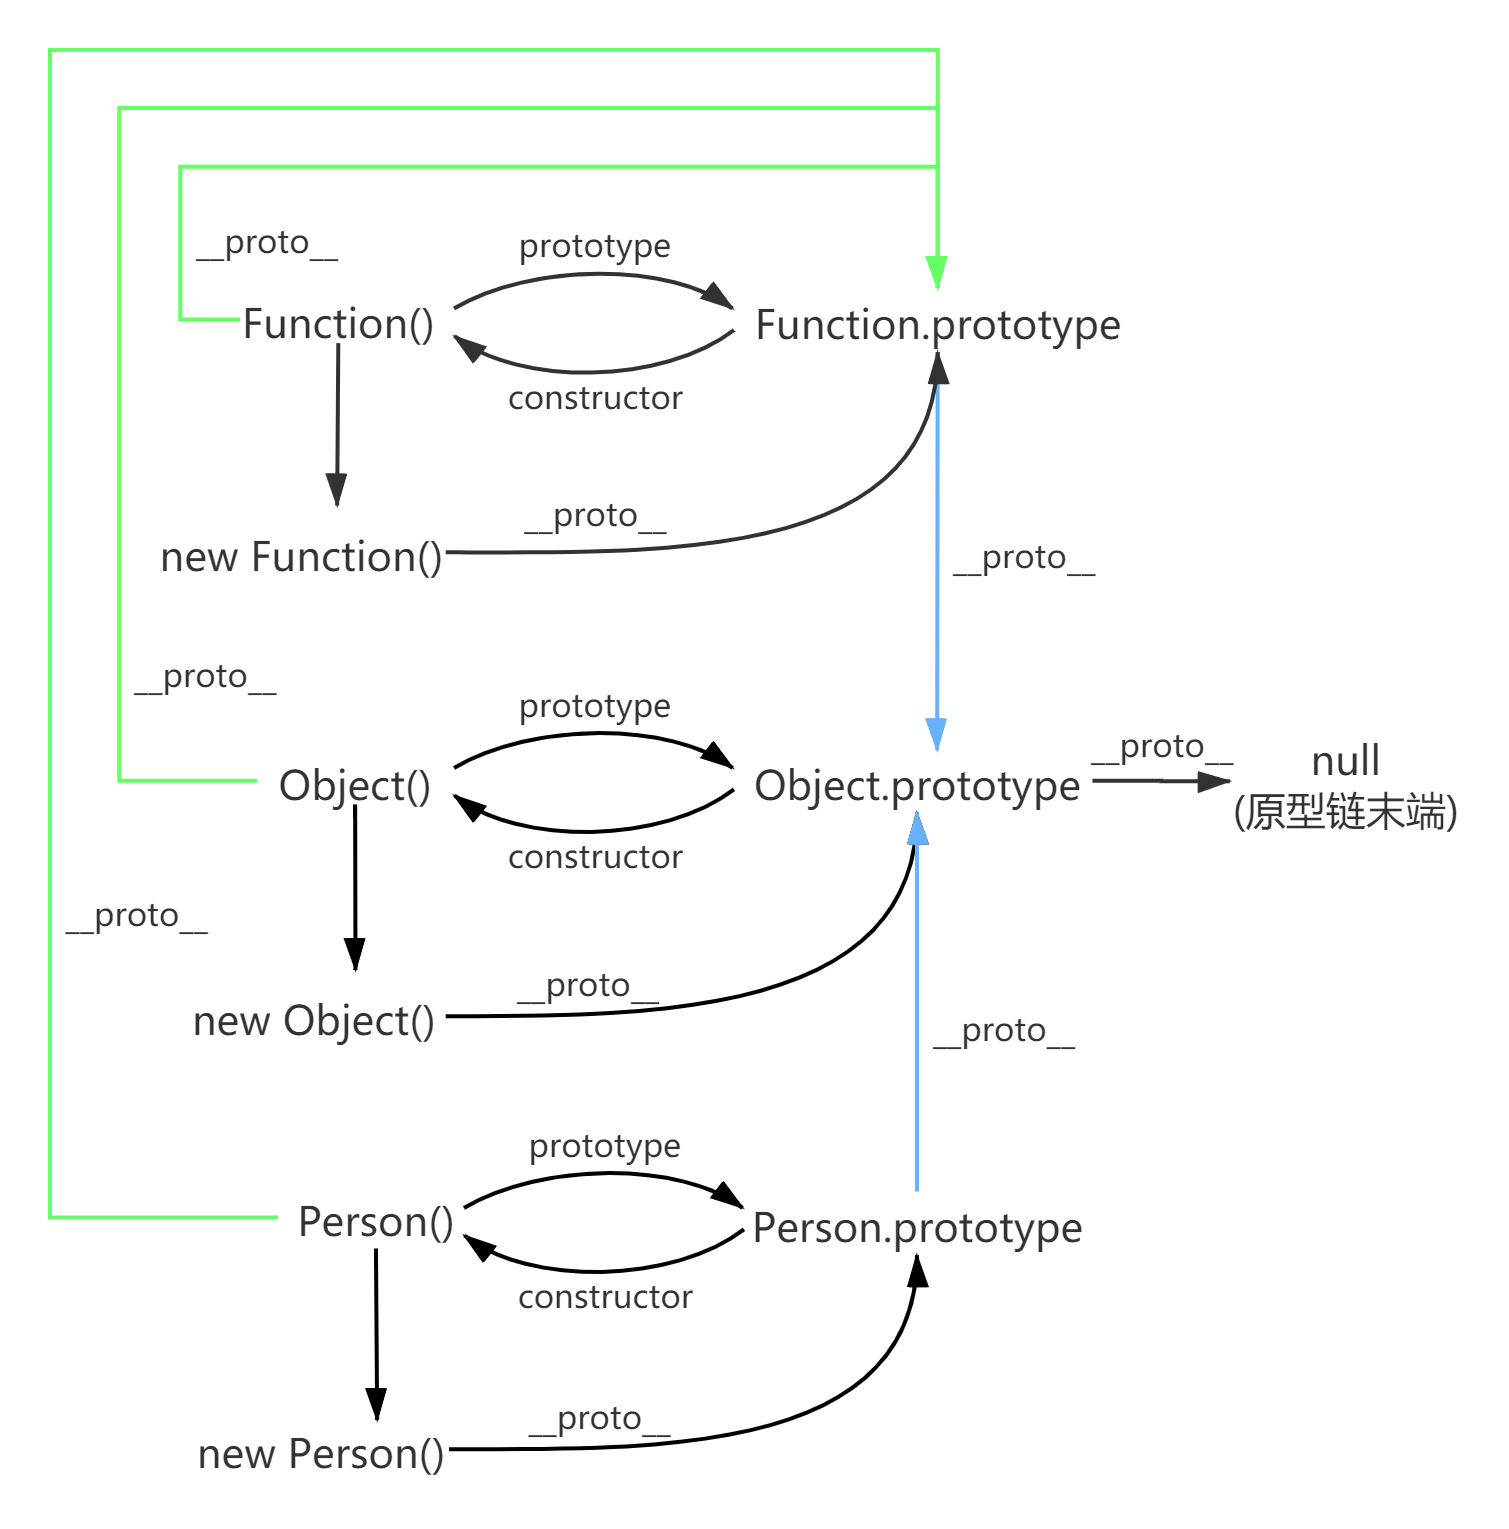
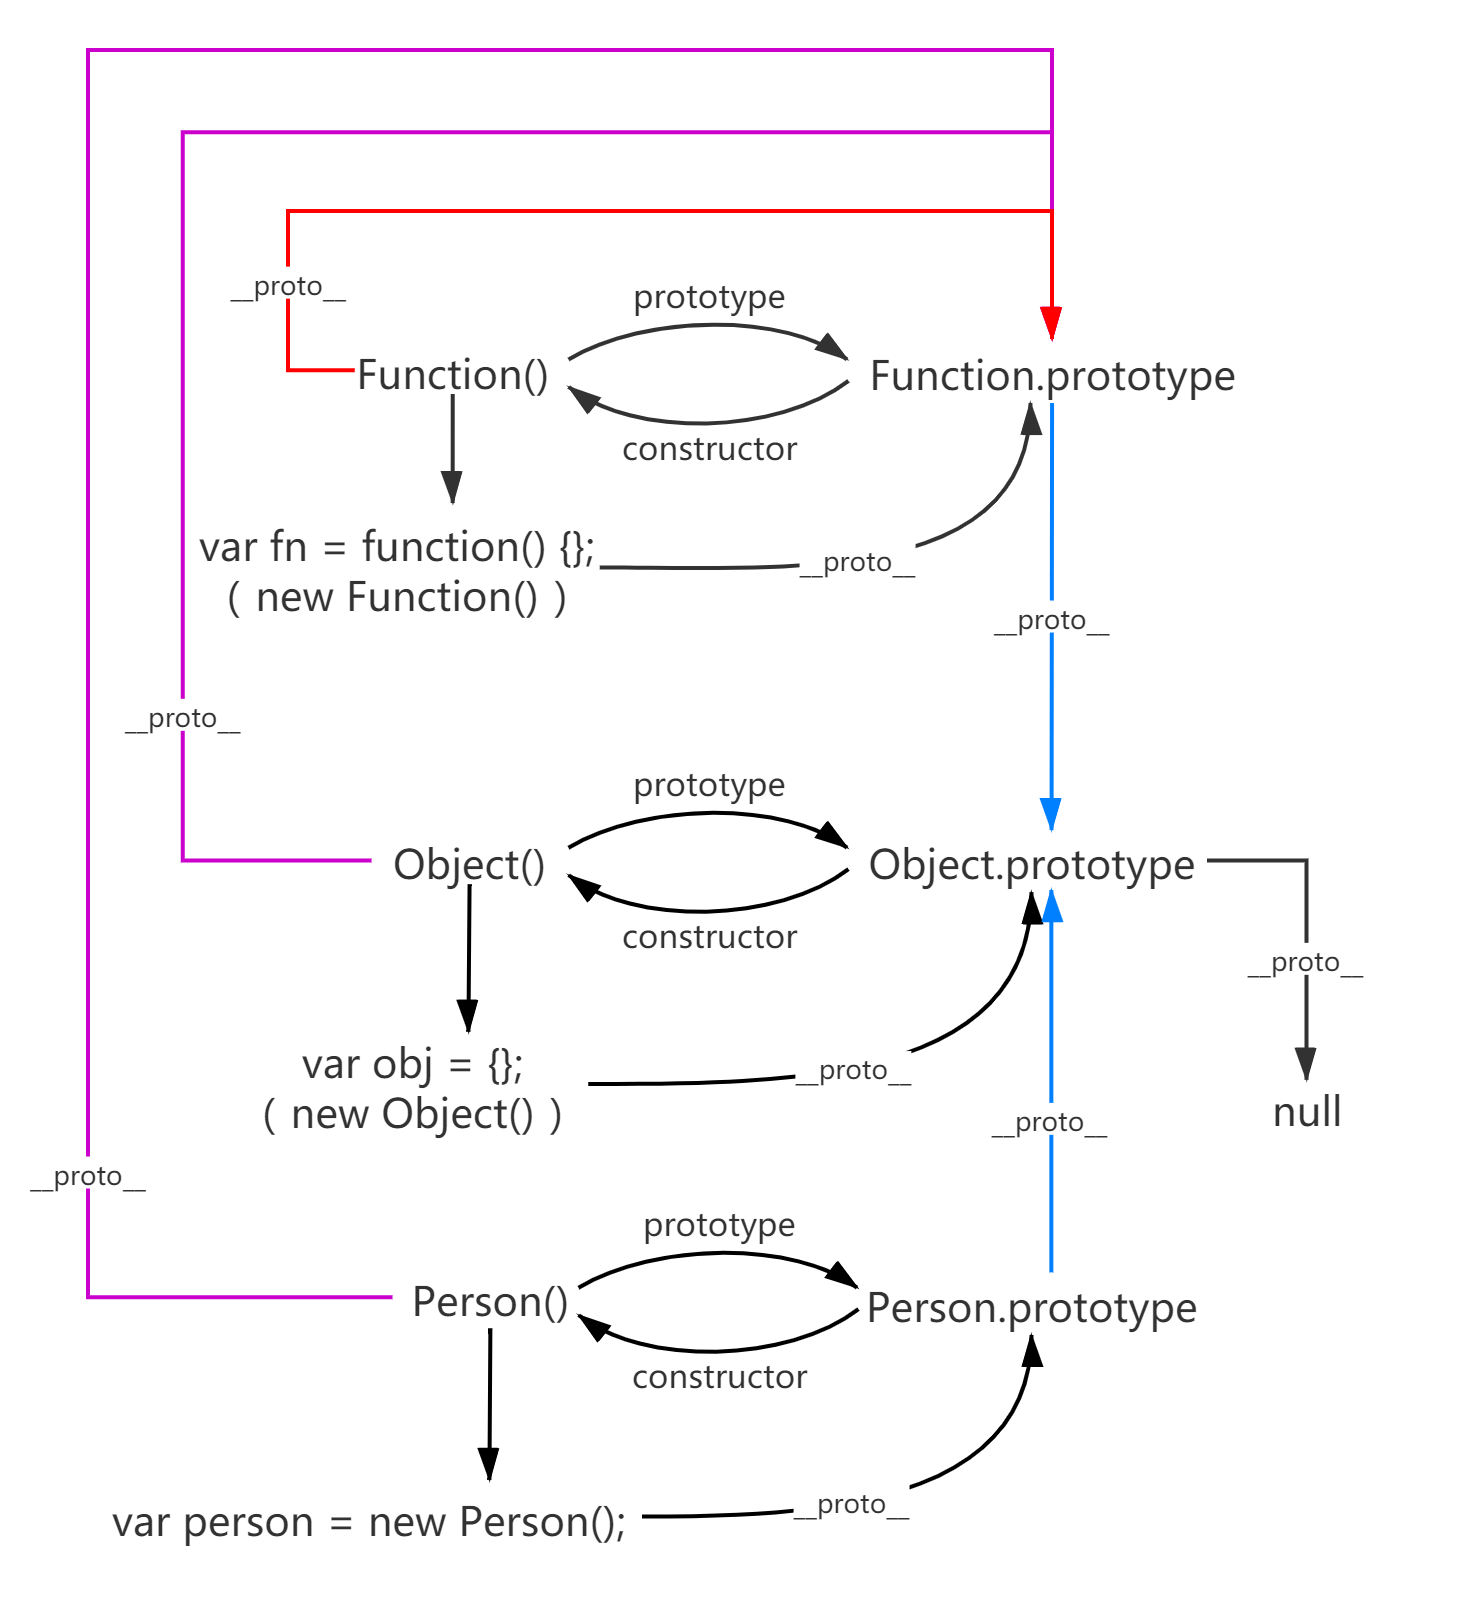
更新笔记

diff --git a/模仿面试.md b/模仿面试.md
@@ -1,0 +1,268 @@
+面试是一个挖掘候选人能力的过程，面试或易或难，甚至很多题目没有思路。遇到没有思路的情况，可以通过以下几点，来尽可能的争取加分而不是减分：
+
+1、**坦诚**
+
+一定要坦诚的告诉面试官，这个题目是自己不熟悉的领域。就算你不说，回答的时候，面试官也能感受到。因此，**切记不懂装懂**。
+
+2、**拓展**
+
+承认自己不理解后，要尝试根据自己以往经验，去讲述类似方案。但是注意，如果是概念性的东西，不要自己胡扯，就比如以下场景：
+
+```text
+问：“能解释一下 HTTP 协议中 302 这个状态码是什么吗？”
+答：“我不记得了。”
+（0 分）
+
+问：“能解释一下 HTTP 协议中 302 这个状态码是什么吗？”
+答：“哦，记不清了，我只记得 404 是找不到页面，304 是可以从缓存读取，5xx 是服务端错误”
+（加分，了解一定 HTTP 状态）
+
+问：“能解释一下 HTTP 协议中 302 这个状态码是什么吗？”
+答：“啊，那个，应该是服务端错误吧？”
+（倾向于面试不通过，不了解的时候瞎猜，这个特点对工作不利）
+```
+
+可以看到，不同的回答会有完全不同的结果。遇到自己不会的题目，通过介绍自己知道的相关知识，不仅不减分反而会加分。
+
+然后，试图引导面试官去问自己擅长的领域，比如根面试官说“不好意思，这个方面我没关注太多，不是很熟悉。不过我对 xxx 领域更熟悉，你可以问我这方面的内容”。
+
+3、**反问**
+
+这一点并不是在向面试官挑衅，而是虚心向对方学习，看对方怎么回答。这样会显得你认真、好学。
+
+总之，在面试中，除了要展示你的知识和能力外；最重要的是，让面试官看到你的态度。
+
+## JavaScript
+
+### 原型和原型链
+
+面试官：**谈谈你对原型和原型链的理解**
+
+候选人：首先在 JS 中，原型也是一个对象，它的作用是为其他对象提供“共享的属性和方法”。然后，在创建一个对象时，它的隐式原型会指向构造函数的显示原型 或 `null`。
+
+由于，原型也是对象，因此原型也有原型，这样就形成了原型链。
+
+面试官：**原型链有什么作用？**
+
+候选人：当访问对象的属性（或方法）时，其实是在查询原型链。如果在该对象上找到了要访问的属性，则直接返回；否则，沿着原型链向上查找，以此类推；直到找到原型链末端的 `null`。
+
+面试官：**那么如何实现继承呢？**
+
+候选人：有三种方法，1、`Object.create()` 2、`Object.setPrototypeOf()` 3、ES6 中的 `extends` 关键字。
+
+其中 `extends` 关键字的实现原理，就是采用了寄生组合式继承的方式。
+
+寄生组合式继承就利用了 `Object.create()`，代码如下所示：
+
+```js
+function inheritPrototype(superType, subType) {
+  // 继承父类型的原型
+  var prototype = Object.create(superType.prototype);
+  // 继承过来的原型上 constructor 会丢失，这里重新添加
+  prototype.constructor = subType;
+  // 将继承的原型赋予子类
+  subType.prototype = prototype;
+}
+
+function SuperType(name) {
+  this.name = name;
+  this.hobby = ["sing", "tap", "rap"];
+}
+
+SuperType.prototype.sayName = function () {
+  console.log(this.name);
+};
+
+function SubType(name, age) {
+  SuperType.call(this, name);
+  this.age = age;
+}
+
+// 子类继承父类的原型
+inheritPrototype(SuperType, SubType);
+
+SubType.prototype.sayAge = function () {
+  console.log(this.age);
+};
+
+var sub = new SubType("foo", 20);
+sub.sayName(); // => foo
+sub.sayAge(); // => 20
+```
+
+## 综合
+
+### 从 URL 输入到页面加载，发生了什么？
+
+总的来说，**主要**有六点：
+
+1. DNS 解析
+2. 建立 TCP 连接
+3. 发送 HTTP 请求
+4. 服务端处理请求，并响应数据
+5. 客户端接收响应数据，并渲染页面
+6. 断开连接（TCP 四次挥手）
+
+---
+
+**输入提示**
+
+在浏览器地址栏中输入内容后，浏览器会根据它的算法，匹配出几条 URL 或 信息。**敲下回车，如果最终输入的是 URL，就会开始 URL 解析。如果最终输入的不是 URL，就使用浏览器默认的搜索引擎去搜索**。
+
+这里，我介绍一下如果最终输入的是 URL，会发生什么。
+
+**URL 解析**
+
+URL 中的字符都是 ASCII 字符，也就是说**非 ASCII 字符的都会进行转义处理**。这样可以保证兼容性和安全性。
+
+接着，**提取其中的域名，然后开始 DNS 解析**。当然，如果是直接使用的 IP 就没有 DNS 解析这一步了。这里假设使用的是域名。
+
+**1. DNS 解析**
+
+DNS 解析就是把域名映射到 IP 的一个过程。具体步骤如下：
+
+1. **检查浏览器中的 DNS 缓存**。如果有，直接使用；否则进行下一步。
+2. **检查系统缓存**。也就是会**检测本地的 hosts 文件**，看是否存储了要访问的域名的 IP。如果有，直接使用（之前也有人利用这个原理进行科学上网，不过貌似并不能 100% 成功）。
+3. **路由器缓存**。路由器也有 DNS 缓存。
+4. **ISP 的 DNS 服务器缓存**。
+5. **根域名服务器**。此处会进行迭代查询，查找顺序为：**根 DNS 服务器（`.`）=> 顶级域名服务器（例如：`.com`） => 二级域名服务器（例如：`google.com`） => ...（依次类推）**。如果找到了，就返回 IP；否则，返回给浏览器信息“找不到服务器地址”。
+
+找到服务器的 IP 后，接下来就开始建立 TCP 连接。
+
+**2. TCP 连接**
+
+目前大多数应用是采用的 HTTP 协议，而 HTTP 协议是以 TCP/IP 协议为基础的。
+
+**IP 的发出**
+
+上述 DNS 解析时，获取了真实的 IP，然后再加上 URL 中的端口号，浏览器会调用系统的 `socket` 函数，请求一个 TCP 流套接字，再封装成 TCP 包，由系统发出。
+
+**TCP 三次握手**
+
+- 第一次握手
+
+  浏览器发送一个 TCP 报文，其中标志位 `SYN = 1`，序号 `seq = x`。
+
+- 第二次握手
+
+  客户端回应一个 TCP 报文，其中标志位 `SYN = 1, ACK = 1`，序号 `seq = y`，确认号 `ack = x + 1`。
+
+- 第三次握手
+
+  浏览器回应一个 TCP 报文，其中标志位 `ACK = 1`，序号 `seq = x + 1`，确认号 `ack = y + 1`。
+
+**3. 发送 HTTP 请求**
+
+完成 TCP 握手后，可能会进行 TLS 握手，也就是走 HTTPS 协议。至于走 HTTP 协议还是走 HTTPS 协议，影响条件很多。比如：
+
+- 用户只输入域名，浏览器默认走 HTTP 协议
+- 用户通过 IP 访问，浏览器也会走 HTTP 协议
+- 只有用户明确指定了 `https://` 前缀，浏览器才会走 HTTPS 协议
+
+但是，我们平时直接输入域名，为什么浏览器走的是 HTTPS？这是因为，浏览器进行了一些判断和重定向。
+
+比如，浏览器会根据域名检查 HSTS 列表，如果找到了 IP 则返回，并强制使用 HTTPS 协议发送请求。其次，如果在 HSTS 列表中没找到，会先发送一次 HTTP 请求，如果服务端启用了 HTTPS，则返回 302 响应；然后浏览器通过 HTTPS 协议重新发送请求。
+
+这中间涉及了 HTTP 到 HTTPS 的重定向，因此这个过程可能受到攻击。这就是为什么使用了 HTTPS 还遭到攻击的原因。
+
+**TLS 握手**
+
+- 第一次握手
+
+  - 客户端发起 TLS 连接请求，其中包含**支持的 TLS 版本、一个随机数、加密算法列表、压缩算法列表**
+  - 服务端回应请求，回应的内容包括**要使用的 TLS 版本、一个随机数、要使用的加密算法、要使用的压缩算法**
+
+- 第二次握手
+
+  - 服务端将自己的证书发给客户端，然后发送 ServerHelloDone 消息
+  - 客户端验证服务端发来的证书，如果不合法，则断开连接
+
+- 第三次握手
+
+  - 客户端发给服务端**一个随机数（pre-master-secret）**，并使用服务端证书中的公钥加密这个随机数
+
+然后两端都有了三个随机数，它们分别使用协商的加密算法和三个随机数，生成“会话密钥”（master-secret）。
+
+- 第四次挥手
+
+  - 客户端发送编码改变通知（告诉服务端，接下来的数据使用会话密钥加密）
+  - 客户端发送握手结束通知（其中包含之前所有握手信息的 Hash 和 MAC，供服务端校验）
+  - 服务端同样会做上述操作
+
+**HTTP 请求报文**
+
+TLS 握手结束后，接下来的流程就和发送 HTTP 请求一样，只不过数据是加密了的。
+
+HTTP 请求报文包括：**请求行、请求头、请求体**。
+
+请求行包括：**请求方法、URI、协议版本**。
+
+请求头用于传输一些附加信息，例如：`Content-Type`、`Cookie` 等。
+
+请求体用于承载数据。
+
+**4. 服务端处理请求，并响应数据**
+
+**HTTP 响应报文**
+
+HTTP 响应报文包括：**响应行、响应头、响应体**。
+
+响应行包括：**协议版本、状态码、状态码描述**。
+
+响应头也是用于传输一些附加信息，例如：`Set-Cookie` 用于在客户端种下 Cookie。
+
+响应体也是用于承载数据。
+
+**5. 客户端接收响应数据，并渲染页面**
+
+客户端拿到响应的数据后，进行如下处理：
+
+- HTML 解析为 DOM 树
+
+  - 采用深度优先遍历，即构建完当前节点的所有子节点后，才会去构建下一个节点。
+
+  - 如果构建 DOM 树的时候，遇到 `<script>` 标签，则停止构建，直到脚本执行完毕。
+
+- CSS 解析为 CSS 规则树
+
+  - 构建 CSS 规则树时，会停止 JS 的执行。
+
+- 然后 CSS 规则树和 DOM 树结合，生成渲染树
+
+  - 精简 CSS 选择器，可以加快渲染树的合成（例如使用 BEM 规则）
+
+- 根据渲染树，计算每个节点的几何信息（位置、大小等）
+
+  - 整个过程也可以叫做布局。布局完成后，如果元素的几何信息发生了改变，就会进行重新布局，也就是**回流**（重排）
+
+- 然后根据计算的几何信息，绘制页面
+
+  - 根据布局阶段，计算好的每个点的像素值，绘制到屏幕上
+  - 如果这个阶段元素的装饰信息（比如：背景颜色、透明度）发生改变，就会引起**重绘**
+  - 同样此时如果元素的几何信息发生改变，则会重新布局
+
+**6. 断开 TCP 连接**
+
+也就是 TCP 四次挥手。由于客户端或服务端都可以主动断开 TCP 连接，因此这里就以客户端主动断开 TCP 连接为例。具体过程如下：
+
+- 第一次挥手
+
+  浏览器发送 TCP 结束报文，其中标志位 `FIN = 1`，序号 `seq = x`。
+
+- 第二次挥手
+
+  服务端发送一个确认报文，其中标志位 `ACK = 1`，序号 `seq = y`，确认号 `ack = x + 1`。
+
+经过了前两次挥手后，服务端还可以给客户端发送数据，但反过来不行。也就是此时处于半关闭的状态。
+
+- 第三次挥手
+
+  如果第二次挥手后，服务端发送完了数据，或者没数据要发送，则会发起挥手请求。
+
+  服务端发送 TCP 结束报文，其中标志位 `FIN = 1`，序号 `seq = u`。
+
+- 第四次挥手
+
+  客户端发送确认报文，其中标志位 `ACK = 1`，序号 `seq = v`，确认号 `ack = u + 1`。
+
+当服务端接收到，客户端发来的确认报文后，就会立即关闭 TCP 连接。而客户端需要等待两个最大传输时间后（2 MSL），才可以关闭 TCP 连接。

diff --git a/JavaScript/JS 基础知识点1.md b/JavaScript/JS 基础知识点1.md
@@ -737,16 +737,23 @@ var person = new Person();
 
 上图看上去有些复杂，其实就三点：
 
-1. 所有构造函数本身，都指向 `Function.prototype`
+1. 所有构造函数，都指向 `Function.prototype`
 
-   > 因为所有函数都是由 `Function()` 实例出来的。
+   > - 除 `Function()` 本身外，所有函数都是通过 `new Function()` 创建的。
+   > - 我们平时使用的 `function xxx() {}` 也不过是语法糖，其底层会调用 `new Function()` 来创建函数。
+   > - 但是 `Function()` 也指向 `Function.prototype`，这就产生了自己创建自己的问题。至于为什么，也仅是在 JS 最初设计的时候，为了满足“所有构造函数，都指向 `Function.prototype`”，避免产生混乱。实际上，引擎会先创建 `Function.prototype`，然后才有 `Function()`。
 
 2. 所有构造函数的原型，都指向 `Object.prototype`
 
-   > 因为构造函数的原型也是对象，是由 `Object()` 实例出来的。
+   > - 只要是对象，在底层就会通过 `new Object()` 来创建。而构造函数的原型也是对象，因此也会通过 `new Object()` 创建，所以构造函数的隐式原型都指向 `Object.prototype`。
+   > - 有个疑问是 `Object.prototype` 也是对象，如果它也是通过 `new Object()` 创建的，就会产生自己创建自己的问题。其实 `Object.prototype`是由引擎创建的，由于它不需要通过其他对象来创建，所以直接指向 `null`。
 
 3. 实例、构造函数、原型之间，形成一个环形指向
 
    > 它们的指向关系是：由构造函数 `new` 出实例，然后实例的隐式原型（`__proto__`）指向构造函数的显示原型（`prototype`）。
 
-其中第二点，不包括 `Object()` 构造函数。由于 `Object()` 已经处于了原型链顶端，如果再向上指，就是 `null` 了，因此也可以说 `null` 是原型链末端。
+---
+
+参考资料：
+
+- [深度解析原型中的各个难点](https://github.com/KieSun/Dream/issues/2)

diff --git a/Web安全/深入探究 TCP 协议.md b/Web安全/深入探究 TCP 协议.md
@@ -62,6 +62,8 @@
 
 由于 A 并没有新发起连接（之前的连接已经超时释放了），所以不会理睬 B 的确认请求，但是 B 会一直等待 A 发来数据，因此使得 B 白白浪费了很多资源。
 
+总的来说，三次握手的目的是 **“为了防止已经过期的连接请求，又到达了服务端而产生错误”**。
+
 ### 两端同时发起请求时会怎样？建立几个连接？
 
 如题，两端都会扮演发起者和接收者的角色，它们的状态分别如下：
